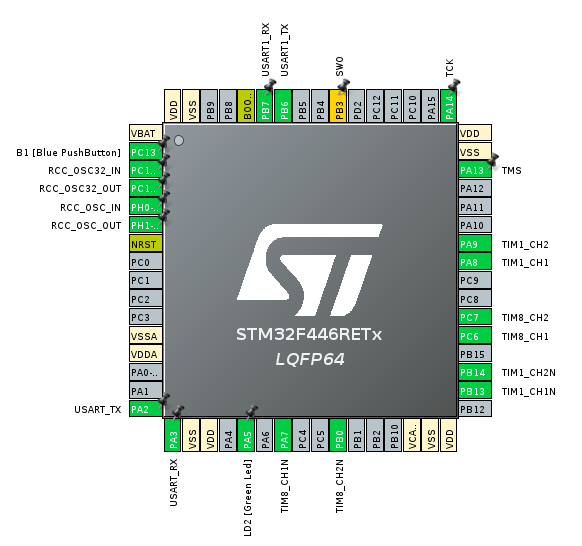
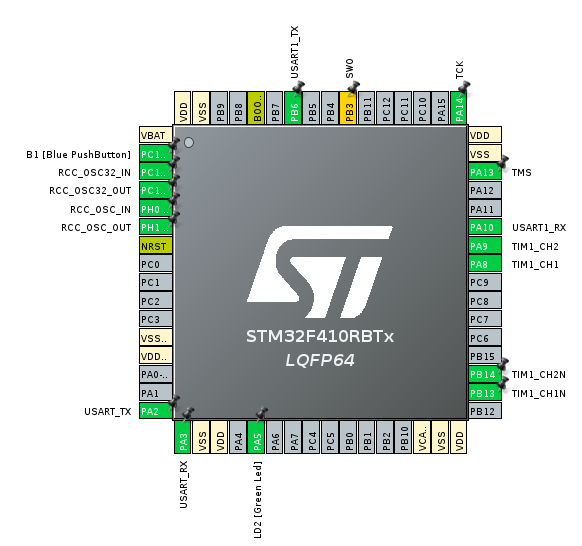
port to NUCLEO-64 STM32F410RB

Changed region(s): [[0.0309, 0.0623, 0.9897, 0.9963], [0.4021, 0.4048, 0.6804, 0.685], [0.433, 0.0311, 0.4948, 0.0623]]

diff --git a/Core/Src/main.c b/Core/Src/main.c
@@ -33,6 +33,7 @@
 /* USER CODE BEGIN PD */
 // #4096+4096
 #define RX_LENGTH (10-1)
+#define PATTERN "%04lu,%04lu"
 /* USER CODE END PD */
 
 /* Private macro -------------------------------------------------------------*/
@@ -42,16 +43,15 @@
 
 /* Private variables ---------------------------------------------------------*/
 TIM_HandleTypeDef htim1;
-TIM_HandleTypeDef htim8;
 
 UART_HandleTypeDef huart1;
 UART_HandleTypeDef huart2;
 
 /* USER CODE BEGIN PV */
-uint32_t alphaL = 500;
-uint32_t alphaR = 500;
-uint32_t dirL = 1;
-uint32_t dirR = 1;
+uint32_t alphaL = STEPS / 2;
+uint32_t alphaR = STEPS / 2;
+int32_t dirL = 1;
+int32_t dirR = 1;
 uint8_t Rx_data1[RX_LENGTH+1];
 uint8_t Rx_data2[RX_LENGTH+1];
 /* USER CODE END PV */
@@ -61,7 +61,6 @@ void SystemClock_Config(void);
 static void MX_GPIO_Init(void);
 static void MX_USART2_UART_Init(void);
 static void MX_TIM1_Init(void);
-static void MX_TIM8_Init(void);
 static void MX_USART1_UART_Init(void);
 /* USER CODE BEGIN PFP */
 
@@ -83,24 +82,22 @@ int __io_putchar(int ch)
 
 void update_duty_cycle(int left, int right){
 	if( (__HAL_TIM_GET_COMPARE(&htim1, TIM_CHANNEL_1) == left) &&
-	    (__HAL_TIM_GET_COMPARE(&htim8, TIM_CHANNEL_1) == right)){
+	    (__HAL_TIM_GET_COMPARE(&htim1, TIM_CHANNEL_2) == right)){
 		return;
 	}
 	__HAL_TIM_SET_COMPARE(&htim1, TIM_CHANNEL_1, left);
-	__HAL_TIM_SET_COMPARE(&htim1, TIM_CHANNEL_2, left);
-	__HAL_TIM_SET_COMPARE(&htim8, TIM_CHANNEL_1, right);
-	__HAL_TIM_SET_COMPARE(&htim8, TIM_CHANNEL_2, right);
-	printf("!%04lu,%04lu\r\n", alphaL, alphaR);
+	__HAL_TIM_SET_COMPARE(&htim1, TIM_CHANNEL_2, right);
+	printf("!" PATTERN "\r\n", alphaL, alphaR);
 }
 
 void HAL_GPIO_EXTI_Callback(uint16_t GPIO_Pin){
 	HAL_GPIO_TogglePin(LD2_GPIO_Port, LD2_Pin);
-	alphaL  = alphaL + dirL * 100;
-	alphaR  = alphaR + dirR * 100;
+	alphaL  = alphaL + dirL * STEPS / 10;
+	alphaR  = alphaR + dirR * STEPS / 10;
 	if (alphaL <= 0) {dirL = 1; alphaL = 0;}
-	if (alphaL >= 1000) {dirL = -1; alphaL = 1000;}
+	if (alphaL >= STEPS) {dirL = -1; alphaL = STEPS;}
 	if (alphaR <= 0) {dirR = 1; alphaR = 0;}
-	if (alphaR >= 1000) {dirR = -1; alphaR = 1000;}
+	if (alphaR >= STEPS) {dirR = -1; alphaR = STEPS;}
 	update_duty_cycle(alphaL, alphaR);
 }
 
@@ -110,14 +107,14 @@ void HAL_UART_RxCpltCallback(UART_HandleTypeDef *huart)
 	uint8_t* buf = huart->pRxBuffPtr - rxlength;
 	buf[rxlength] = '\0';
 	if ( (buf[0]=='?')){
-		printf("=%04lu,%04lu\r\n", alphaL, alphaR);
+		printf("=" PATTERN "\r\n", alphaL, alphaR);
 	} else if (buf[0]=='#') {
 		HAL_UART_Receive_IT(huart, buf, RX_LENGTH);
 		return;
 	} else if (rxlength > 1){
-		if (sscanf((char*) buf, "%04lu+%04lu", &alphaL, &alphaR) == 2){
-			alphaL  = alphaL % 1001;
-			alphaR  = alphaR % 1001;
+		if (sscanf((char*) buf, PATTERN, &alphaL, &alphaR) == 2){
+			alphaL  = alphaL % (STEPS + 1);
+			alphaR  = alphaR % (STEPS + 1);
 			update_duty_cycle(alphaL, alphaR);
 		}
 	}
@@ -156,29 +153,16 @@ int main(void)
   MX_GPIO_Init();
   MX_USART2_UART_Init();
   MX_TIM1_Init();
-  MX_TIM8_Init();
   MX_USART1_UART_Init();
   /* USER CODE BEGIN 2 */
 
-  if (HAL_TIM_PWM_Start(&htim1, TIM_CHANNEL_1) != HAL_OK)
-  	  	  {Error_Handler();}
-  if (HAL_TIM_PWM_Start(&htim1, TIM_CHANNEL_2) != HAL_OK)
-		  {Error_Handler();}
-  if (HAL_TIM_PWM_Start(&htim8, TIM_CHANNEL_1) != HAL_OK)
-		  {Error_Handler();}
-  if (HAL_TIM_PWM_Start(&htim8, TIM_CHANNEL_2) != HAL_OK)
-		  {Error_Handler();}
-  if (HAL_TIMEx_PWMN_Start(&htim1, TIM_CHANNEL_1) != HAL_OK)
-		  {Error_Handler();}
-  if (HAL_TIMEx_PWMN_Start(&htim1, TIM_CHANNEL_2) != HAL_OK)
-		  {Error_Handler();}
-  if (HAL_TIMEx_PWMN_Start(&htim8, TIM_CHANNEL_1) != HAL_OK)
-		  {Error_Handler();}
-  if (HAL_TIMEx_PWMN_Start(&htim8, TIM_CHANNEL_2) != HAL_OK)
-		  {Error_Handler();}
+  HAL_TIM_PWM_Start(&htim1, TIM_CHANNEL_1);
+  HAL_TIM_PWM_Start(&htim1, TIM_CHANNEL_2);
+  HAL_TIMEx_PWMN_Start(&htim1, TIM_CHANNEL_1);
+  HAL_TIMEx_PWMN_Start(&htim1, TIM_CHANNEL_2);
 
   printf("Started\r\n");
-  printf("!%04lu,%04lu\r\n", alphaL, alphaR);
+  printf("!" PATTERN "\r\n", alphaL, alphaR);
   /* USER CODE END 2 */
 
   /* Infinite loop */
@@ -207,7 +191,7 @@ void SystemClock_Config(void)
   /** Configure the main internal regulator output voltage
   */
   __HAL_RCC_PWR_CLK_ENABLE();
-  __HAL_PWR_VOLTAGESCALING_CONFIG(PWR_REGULATOR_VOLTAGE_SCALE3);
+  __HAL_PWR_VOLTAGESCALING_CONFIG(PWR_REGULATOR_VOLTAGE_SCALE1);
 
   /** Initializes the RCC Oscillators according to the specified parameters
   * in the RCC_OscInitTypeDef structure.
@@ -220,7 +204,7 @@ void SystemClock_Config(void)
   RCC_OscInitStruct.PLL.PLLM = 16;
   RCC_OscInitStruct.PLL.PLLN = 336;
   RCC_OscInitStruct.PLL.PLLP = RCC_PLLP_DIV4;
-  RCC_OscInitStruct.PLL.PLLQ = 2;
+  RCC_OscInitStruct.PLL.PLLQ = 4;
   RCC_OscInitStruct.PLL.PLLR = 2;
   if (HAL_RCC_OscConfig(&RCC_OscInitStruct) != HAL_OK)
   {
@@ -264,7 +248,7 @@ static void MX_TIM1_Init(void)
   htim1.Instance = TIM1;
   htim1.Init.Prescaler = 84 - 1;
   htim1.Init.CounterMode = TIM_COUNTERMODE_UP;
-  htim1.Init.Period = 1000 - 1 ;
+  htim1.Init.Period = STEPS;
   htim1.Init.ClockDivision = TIM_CLOCKDIVISION_DIV1;
   htim1.Init.RepetitionCounter = 0;
   htim1.Init.AutoReloadPreload = TIM_AUTORELOAD_PRELOAD_ENABLE;
@@ -279,7 +263,7 @@ static void MX_TIM1_Init(void)
     Error_Handler();
   }
   sConfigOC.OCMode = TIM_OCMODE_PWM1;
-  sConfigOC.Pulse = 500;
+  sConfigOC.Pulse = STEPS / 2;
   sConfigOC.OCPolarity = TIM_OCPOLARITY_HIGH;
   sConfigOC.OCNPolarity = TIM_OCNPOLARITY_HIGH;
   sConfigOC.OCFastMode = TIM_OCFAST_DISABLE;
@@ -308,75 +292,6 @@ static void MX_TIM1_Init(void)
 
   /* USER CODE END TIM1_Init 2 */
   HAL_TIM_MspPostInit(&htim1);
-
-}
-
-/**
-  * @brief TIM8 Initialization Function
-  * @param None
-  * @retval None
-  */
-static void MX_TIM8_Init(void)
-{
-
-  /* USER CODE BEGIN TIM8_Init 0 */
-
-  /* USER CODE END TIM8_Init 0 */
-
-  TIM_MasterConfigTypeDef sMasterConfig = {0};
-  TIM_OC_InitTypeDef sConfigOC = {0};
-  TIM_BreakDeadTimeConfigTypeDef sBreakDeadTimeConfig = {0};
-
-  /* USER CODE BEGIN TIM8_Init 1 */
-
-  /* USER CODE END TIM8_Init 1 */
-  htim8.Instance = TIM8;
-  htim8.Init.Prescaler = 84 - 1;
-  htim8.Init.CounterMode = TIM_COUNTERMODE_UP;
-  htim8.Init.Period = 1000 - 1;
-  htim8.Init.ClockDivision = TIM_CLOCKDIVISION_DIV1;
-  htim8.Init.RepetitionCounter = 0;
-  htim8.Init.AutoReloadPreload = TIM_AUTORELOAD_PRELOAD_ENABLE;
-  if (HAL_TIM_PWM_Init(&htim8) != HAL_OK)
-  {
-    Error_Handler();
-  }
-  sMasterConfig.MasterOutputTrigger = TIM_TRGO_RESET;
-  sMasterConfig.MasterSlaveMode = TIM_MASTERSLAVEMODE_DISABLE;
-  if (HAL_TIMEx_MasterConfigSynchronization(&htim8, &sMasterConfig) != HAL_OK)
-  {
-    Error_Handler();
-  }
-  sConfigOC.OCMode = TIM_OCMODE_PWM1;
-  sConfigOC.Pulse = 500;
-  sConfigOC.OCPolarity = TIM_OCPOLARITY_HIGH;
-  sConfigOC.OCNPolarity = TIM_OCNPOLARITY_HIGH;
-  sConfigOC.OCFastMode = TIM_OCFAST_DISABLE;
-  sConfigOC.OCIdleState = TIM_OCIDLESTATE_RESET;
-  sConfigOC.OCNIdleState = TIM_OCNIDLESTATE_RESET;
-  if (HAL_TIM_PWM_ConfigChannel(&htim8, &sConfigOC, TIM_CHANNEL_1) != HAL_OK)
-  {
-    Error_Handler();
-  }
-  if (HAL_TIM_PWM_ConfigChannel(&htim8, &sConfigOC, TIM_CHANNEL_2) != HAL_OK)
-  {
-    Error_Handler();
-  }
-  sBreakDeadTimeConfig.OffStateRunMode = TIM_OSSR_DISABLE;
-  sBreakDeadTimeConfig.OffStateIDLEMode = TIM_OSSI_DISABLE;
-  sBreakDeadTimeConfig.LockLevel = TIM_LOCKLEVEL_OFF;
-  sBreakDeadTimeConfig.DeadTime = 232;
-  sBreakDeadTimeConfig.BreakState = TIM_BREAK_DISABLE;
-  sBreakDeadTimeConfig.BreakPolarity = TIM_BREAKPOLARITY_HIGH;
-  sBreakDeadTimeConfig.AutomaticOutput = TIM_AUTOMATICOUTPUT_DISABLE;
-  if (HAL_TIMEx_ConfigBreakDeadTime(&htim8, &sBreakDeadTimeConfig) != HAL_OK)
-  {
-    Error_Handler();
-  }
-  /* USER CODE BEGIN TIM8_Init 2 */
-
-  /* USER CODE END TIM8_Init 2 */
-  HAL_TIM_MspPostInit(&htim8);
 
 }
 
@@ -498,8 +413,6 @@ void Error_Handler(void)
   __disable_irq();
   while (1)
   {
-	  HAL_GPIO_TogglePin(LD2_GPIO_Port, LD2_Pin);
-	  HAL_Delay(100);
   }
   /* USER CODE END Error_Handler_Debug */
 }

diff --git a/README.md b/README.md
@@ -1,6 +1,6 @@
-# STM32F446RE
+# STM32F410RB
 
-## tim1 and tim8 
+## tim1 
 * Complementary pwm (up to 3 phases) with dead zone
 * Drive by APB2 clck (84MHz default on nucleo)
 * prescaler set to 84 => timer frequency = 1 MHz
@@ -9,7 +9,7 @@
 
 
 ## serial protocol:
-uart1 (RX-PB6 + TX-PB7) + uart2 (USB) are activated
+uart1 (TX-PB6 + RX-PA10) + uart2 (USB) are activated
 
 The both uart are IRQ managed in parallel, they work exactly the same way.
 
@@ -24,23 +24,18 @@ The both uart are IRQ managed in parallel, they work exactly the same way.
 ## Output:
  Name | pin 
  --- | :---:
- UART1 RX| PB7
+ UART1 RX| PA10
  UART1 TX| PB6
  Tim1 chan1| PA8
  Tim1 chan1N| PB13
  Tim1 chan2| PA9
  Tim1 chan2N| PB14
- Tim8 chan1| PC6
- Tim8 chan1N| PA7
- Tim8 chan2| PC7
- Tim8 chan2N| PB0
 
 ![STM32 pinout](doc/pinout.png)
 
 ------
 
 ## TODO
-* remove all magic numbers
 * add enable signal to stop motors
 * manage rotary encoder and return speed?
 
